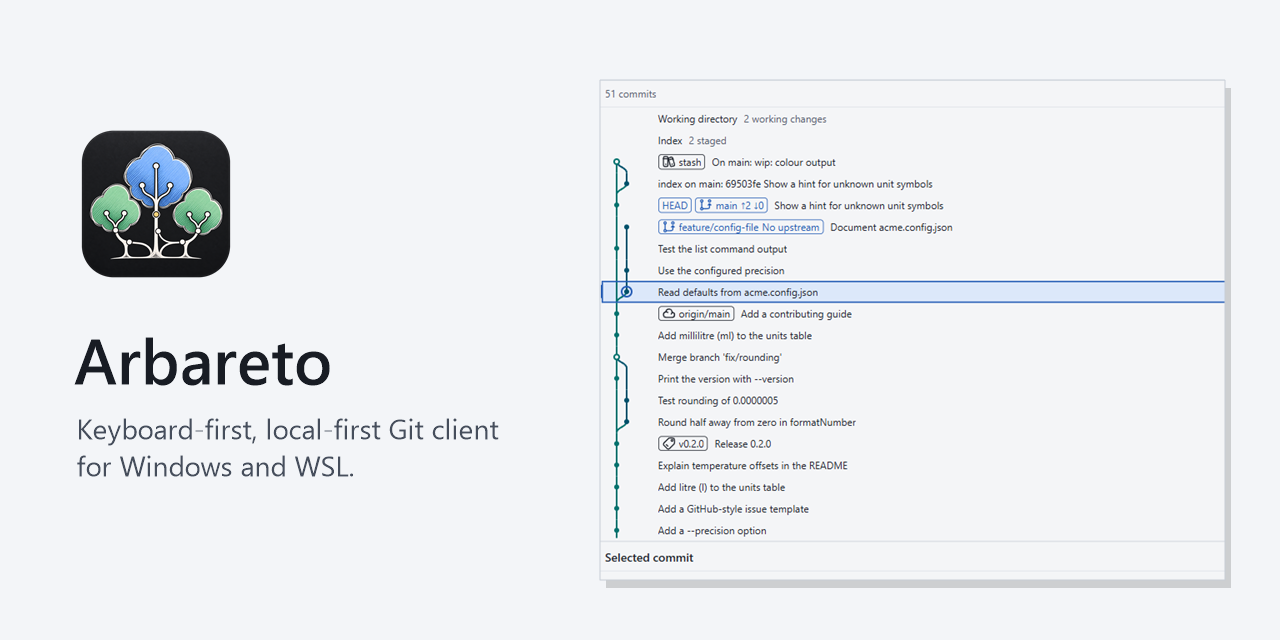
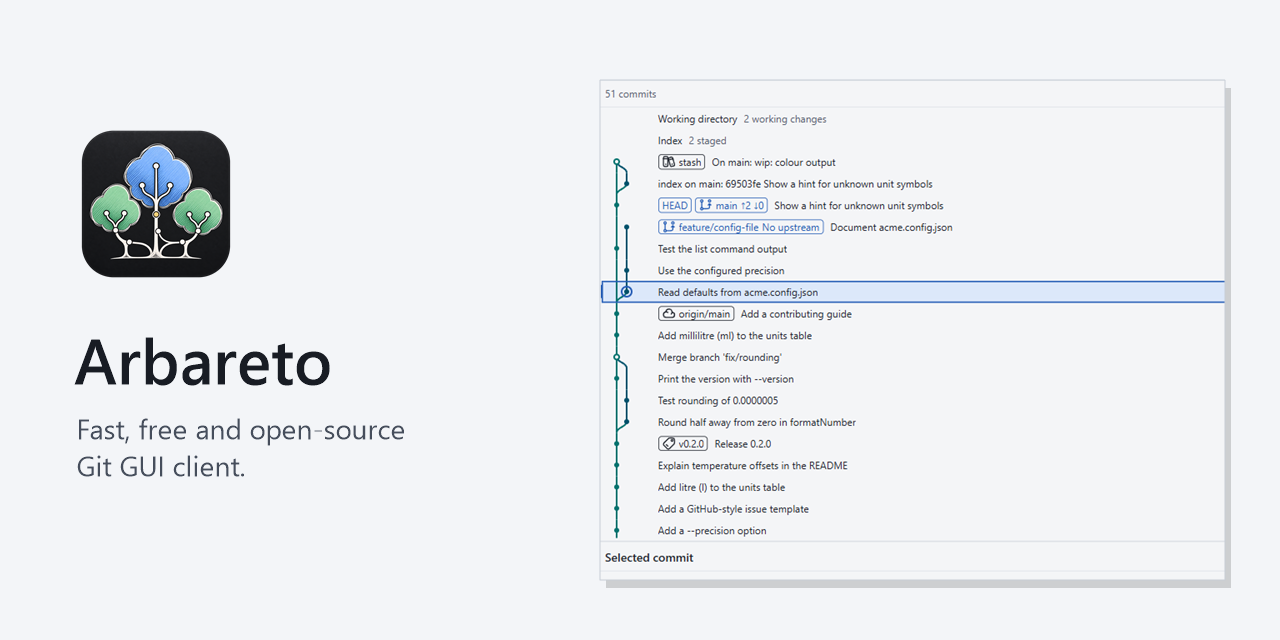
docs: public description: a fast, free and open-source Git GUI client, cross-platform by design with Windows first; README opening paragraph, package descriptions, social preview, and a current project brief status

Changed region(s): [[0.0625, 0.6562, 0.4062, 0.75]]

diff --git a/README.md b/README.md
@@ -2,28 +2,33 @@
 
 # Arbareto
 
-Keyboard-first, local-first Git client for Windows and WSL.
+Fast, free and open-source Git GUI client.
+
+Arbareto is a desktop Git client inspired by Git Extensions. It covers the full commit graph, hunk and line staging, branches, merge, rebase, worktrees, submodules, and WSL repositories. It runs on Tauri 2 and Rust, not Electron, and needs no account or cloud service.
 
 ## Screenshots
 
 <picture>
   <source media="(prefers-color-scheme: dark)" srcset="docs/assets/screenshots/history-dark.png">
-  <img src="docs/assets/screenshots/history-light.png" alt="Arbareto history view: the commit graph with branch lanes, branch and tag labels, the references sidebar with branches, remotes, tags, and worktrees, and the details of the selected commit">
+  <img src="docs/assets/screenshots/history-light.png" alt="Arbareto Git GUI history view: the commit graph with branch lanes, branch and tag labels, the references sidebar with branches, remotes, tags, and worktrees, and the details of the selected commit">
 </picture>
 
-<img src="docs/assets/screenshots/changes-light.png" alt="Arbareto commit view: changed files in a folder tree, a diff with Stage hunk buttons, the staged files, and the commit message box with a 72-column guide, Amend last commit, and Commit and push">
+<img src="docs/assets/screenshots/changes-light.png" alt="Arbareto Git client commit view: changed files in a folder tree, a diff with Stage hunk buttons, the staged files, and the commit message box with a 72-column guide, Amend last commit, and Commit and push">
 
 ## Status
 
 - Arbareto is pre-release software. Expect missing features and changes.
-- Windows comes first. The qualification target is Windows 11 x64. macOS and Linux come later.
+- Arbareto is cross-platform by design. The frontend, the Git service, and the operation contracts are shared code. A thin Tauri shell layer holds the platform parts.
+- Windows 11 x64 is the first platform that the project qualifies.
+- Linux comes next. macOS comes later, because no Mac test hardware is available yet.
+- WSL repositories work from the Windows app.
 - No installer release exists yet. Build the app from source.
 
 ## Features
 
 These features work on the `main` branch today.
 
-- History of the whole repository, with a commit graph in branch lanes and the details of the selected commit.
+- Git GUI history of the whole repository, with a commit graph in branch lanes and the details of the selected commit.
 - Commit message search, with steps through the matches in the full graph.
 - Working changes and a diff view. Stage and unstage files, folders, hunks, or selected lines.
 - Commit, amend the last commit, and commit and push in one step.
@@ -35,14 +40,14 @@ These features work on the `main` branch today.
 - Git settings by scope: system, global, and local.
 - Repositories inside WSL 2 distros, through the Git of the distro.
 - A repository trust prompt before Arbareto runs programs that the repository configures.
-- Keyboard-first: shortcuts and keyboard focus for the main actions.
+- Keyboard shortcuts and keyboard focus for the main actions.
 - System, light, and dark themes, with three dark palettes. The interface supports Windows contrast themes.
 
 ### Planned
 
 - Changed files of a commit in the history view, blame, file delete, and an ignore editor.
 - Spell check of the commit message.
-- macOS and Linux builds.
+- Linux build and qualification, then macOS.
 
 ## Requirements
 
@@ -50,6 +55,7 @@ These features work on the `main` branch today.
 - Git for Windows 2.55.0.windows.3 or later.
 - For WSL repositories: WSL 2 and Git 2.55.0 or later inside the distro. Arbareto refuses WSL 1 distros.
 - The Microsoft Edge WebView2 Runtime. The installer does not install it.
+- These requirements are for Windows. The Linux and macOS requirements come with their builds.
 
 ## Build from source
 

diff --git a/docs/project-brief.md b/docs/project-brief.md
@@ -1,7 +1,7 @@
 # Arbareto — Windows-first, cross-platform Git client project brief
 
 Research reviewed: 28 September 2026.
-Status: planning input. Spec Kit v1.0.12 is initialized. The application code is in this repository; the README [Status](../README.md#status) section gives its state. Use Tauri 2 with a compiled TypeScript/Bun Git service for the first qualification feature. No packaged Windows, performance, or installer tests have run. Validate the selected architecture through packaged Windows tests.
+Status: planning input. Spec Kit v1.0.12 is initialized. The application code is in this repository; the README [Status](../README.md#status) section gives its state. Use Tauri 2 with a compiled TypeScript/Bun Git service for the first qualification feature. Packaged Windows tests are in `tests/windows`. The `research.md` file of each feature in [specs/](../specs/) records the qualification runs. Validate the selected architecture through packaged Windows tests.
 
 ## Product
 
